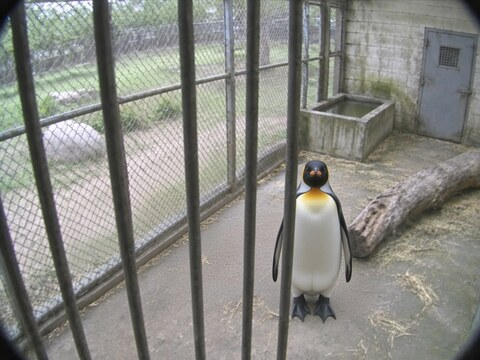
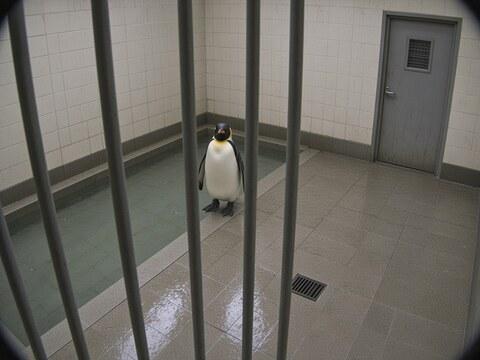
feat: give the penguin its own cage, a tiled pool pen, not the tiger's
CAM02 is now a distinct penguin enclosure — a wet tiled pen with a shallow
pool and a service door — instead of the tiger cage with a penguin dropped in,
so the two cages read as two different cages in the same facility. Same grainy
CCTV look and foreground bars; the breathe box is retuned to the penguin's spot.

diff --git a/src/cam/page.html b/src/cam/page.html
@@ -424,7 +424,7 @@ svg.i { flex-shrink: 0; }
     empty4: { src: "tiger/cam4-empty.jpg", cam: 4 },
     back: { src: "tiger/in.jpg", moves: [{ kind: "drift", box: [0.84, 0.19, 0.99, 0.45], ax: -1.5, ay: 1.5 }] },
     // The second cage, "cam 02": a penguin in the same enclosure, shown during a chained-escape run's penguin turns.
-    penguin: { src: "tiger/penguin.jpg", cam: 2, moves: [{ kind: "breathe", box: [0.57, 0.50, 0.74, 0.83], amt: 0.01, hz: 0.3 }] },
+    penguin: { src: "tiger/penguin.jpg", cam: 2, moves: [{ kind: "breathe", box: [0.40, 0.37, 0.54, 0.63], amt: 0.01, hz: 0.3 }] },
   };
   for (const p of Object.values(POSES)) { p.img = new Image(); p.img.src = p.src; p.cam = p.cam || 3; }
   const ready = (name) => { const p = POSES[name]; return !!p && p.img.complete && p.img.naturalWidth > 0; };
